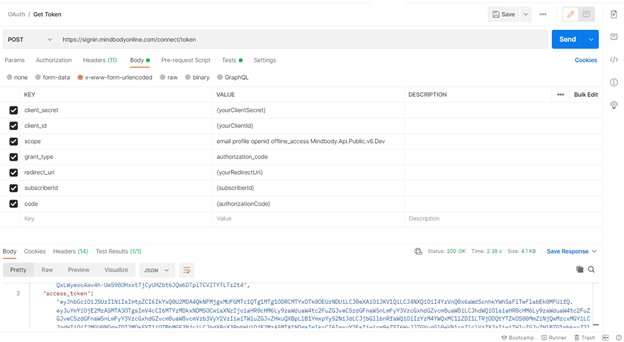
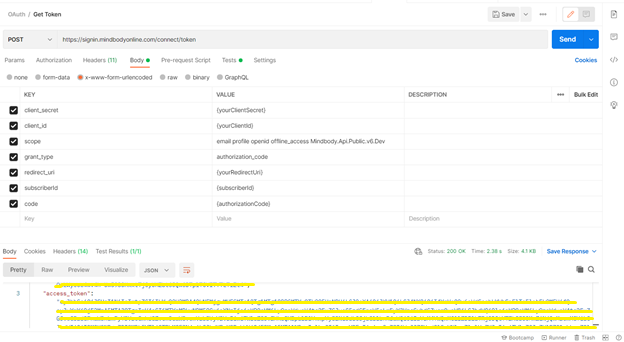
Updated readme and  hide the secret

Changed region(s): [[0.0913, 0.8772, 0.9744, 0.9649], [0.0913, 0.8187, 0.4263, 0.848]]

diff --git a/ReadMe.md b/ReadMe.md
@@ -4,73 +4,6 @@
 
 You'll need to follow these processes in the order given.
 
-**Creating a Mindbody Developer Account**
-
-Before you can log in to the developer portal, you must create a Mindbody developer account.
-
-**To create a Mindbody developer account**
-
-1.	[Fill out the form for a developer account](https://developers.mindbodyonline.com/Home/SignUp).
-It is important to note that Mindbody takes the business name that you enter on this form and makes it the ```SourceName``` parameter used for Public API calls. This name cannot be changed once you have submitted this form.
-
-2.	Click **Submit**.
-You can then log in to your developer account from     [https://developers.mindbodyonline.com/Home/LogIn](https://developers.mindbodyonline.com/Home/LogIn)
-
-
-Click on **Create an account** link.
-
-![](/img/CreateAccount_1.PNG)
-
-
-Click on **Continue with Email**.
-
-![](/img/ContinuewithEmail.PNG)
-
-
-Fill the details and click on **Create Account**.
-
-![](/img/CreateAccount_2.PNG)
-
-
-Email will be sent to entered email id for verification.
-
-![](/img/EmailSent.PNG)
-
-
-Click on the  **Verify this email address**.
-
-![](/img/Verification_Mail.PNG)
-
-
-Your email will be verified.
-
-![](/img/Email_Verified.PNG)
-
-
-Sign In again.
-
-![](/img/LogIn.PNG)
-
-
-Request for  Go- Liive.
-
-![](/img/GoLive_1.PNG)
-
-![](/img/GoLive_2.PNG)
-
-![](/img/GoLive_3.PNG)
-
-
-Request will go to the admin. Once admin approves the request Login again and create billing acccount.
-
-![](/img/BillingAccount_1.PNG)
-
-![](/img/BillingAccount_2.PNG)
-
-![](/img/BillingAccount_3.PNG)
-
-
-
 ###**OAuth**
 
 OAuth is another way to authorize endpoints by obtaining access token. The OAuth 2.0 authorization is a framework that allows user to grant a third party website or application access to the user's protected resources, without necessarily revealing their credentials or even identity.
@@ -85,30 +18,30 @@ For OAuth client creation, please [Contact API Support](https://support.mindbody
 Go to  **Account**.
 
 
-![](/img/Oauth_1.PNG)
+![](/img/Oauth_1.png)
 
-![](/img/Oauth_2.PNG)
+![](/img/Oauth_2.png)
 
 
 Go to **API Credentials** and click on **Create new OAuth Client** and select **Web**.
 
-![](/img/Oauth_3.PNG)
+![](/img/Oauth_3.png)
 
-![](/img/Oauth_4.PNG)
+![](/img/Oauth_4.png)
 
 
 Click on **CREATE CLIENT** and copy the secret.
 
-![](/img/Oauth_5.PNG)
+![](/img/Oauth_5.png)
 
 ![](/img/Oauth_6.PNG)
 
 
 Click on **Manage**. You will be able to see **Configurations** and **Oauth Credentials**.
 
-![](/img/Oauth_7.PNG)
+![](/img/Oauth_7.png)
 
-![](/img/Oauth_8.PNG)
+![](/img/Oauth_8.png)
 
 
 Once Oauth Client is created you can use the endpoint for Authorization.
@@ -144,10 +77,10 @@ After a consumer navigates to the authorize endpoint, they will be redirected to
 
 
 
-![](/img/Oauth_9.PNG)
+![](/img/Oauth_9.png)
 
 
-```
+```C#
 var client = new RestClient("https://signin.mindbodyonline.com/connect/authorize?response_mode=form_post&client_id={yourClientId}&redirect_uri={yourRedirectUri}&scope=email profile openid offline_access Mindbody.Api.Public.v6.Dev&response_type=code id_token&nonce=nonce&subscriberId={subscriberId}");
 client.Timeout = -1;
 var request = new RestRequest(Method.GET);
@@ -158,7 +91,7 @@ Copy the url and paste in Browser.
 
 Copy the Code from network tab in developer tool.
 
-![](/img/Oauth_10.PNG)
+![](/img/Oauth_10.png)
 
 
 **Token**
@@ -205,9 +138,9 @@ This endpoint is used to request an access token in exchange for an authorizatio
 
 Hit the  Get Token api and copy the access token
 
-![](/img/Oauth_11.PNG)
+![](/img/Oauth_11.png)
 
-```
+```C#
 var client = new RestClient("https://signin.mindbodyonline.com/connect/token");
 client.Timeout = -1;
 var request = new RestRequest(Method.POST);
@@ -229,10 +162,10 @@ This can be used to access the public api.
 
 Refresh token can be generated as below:
 
-![](/img/Oauth_12.PNG)
+![](/img/Oauth_12.png)
 
 
-```
+```C#
 var client = new RestClient("https://signin-sandbox.staging.arcusplatform.io/connect/token");
 client.Timeout = -1;
 var request = new RestRequest(Method.POST);
